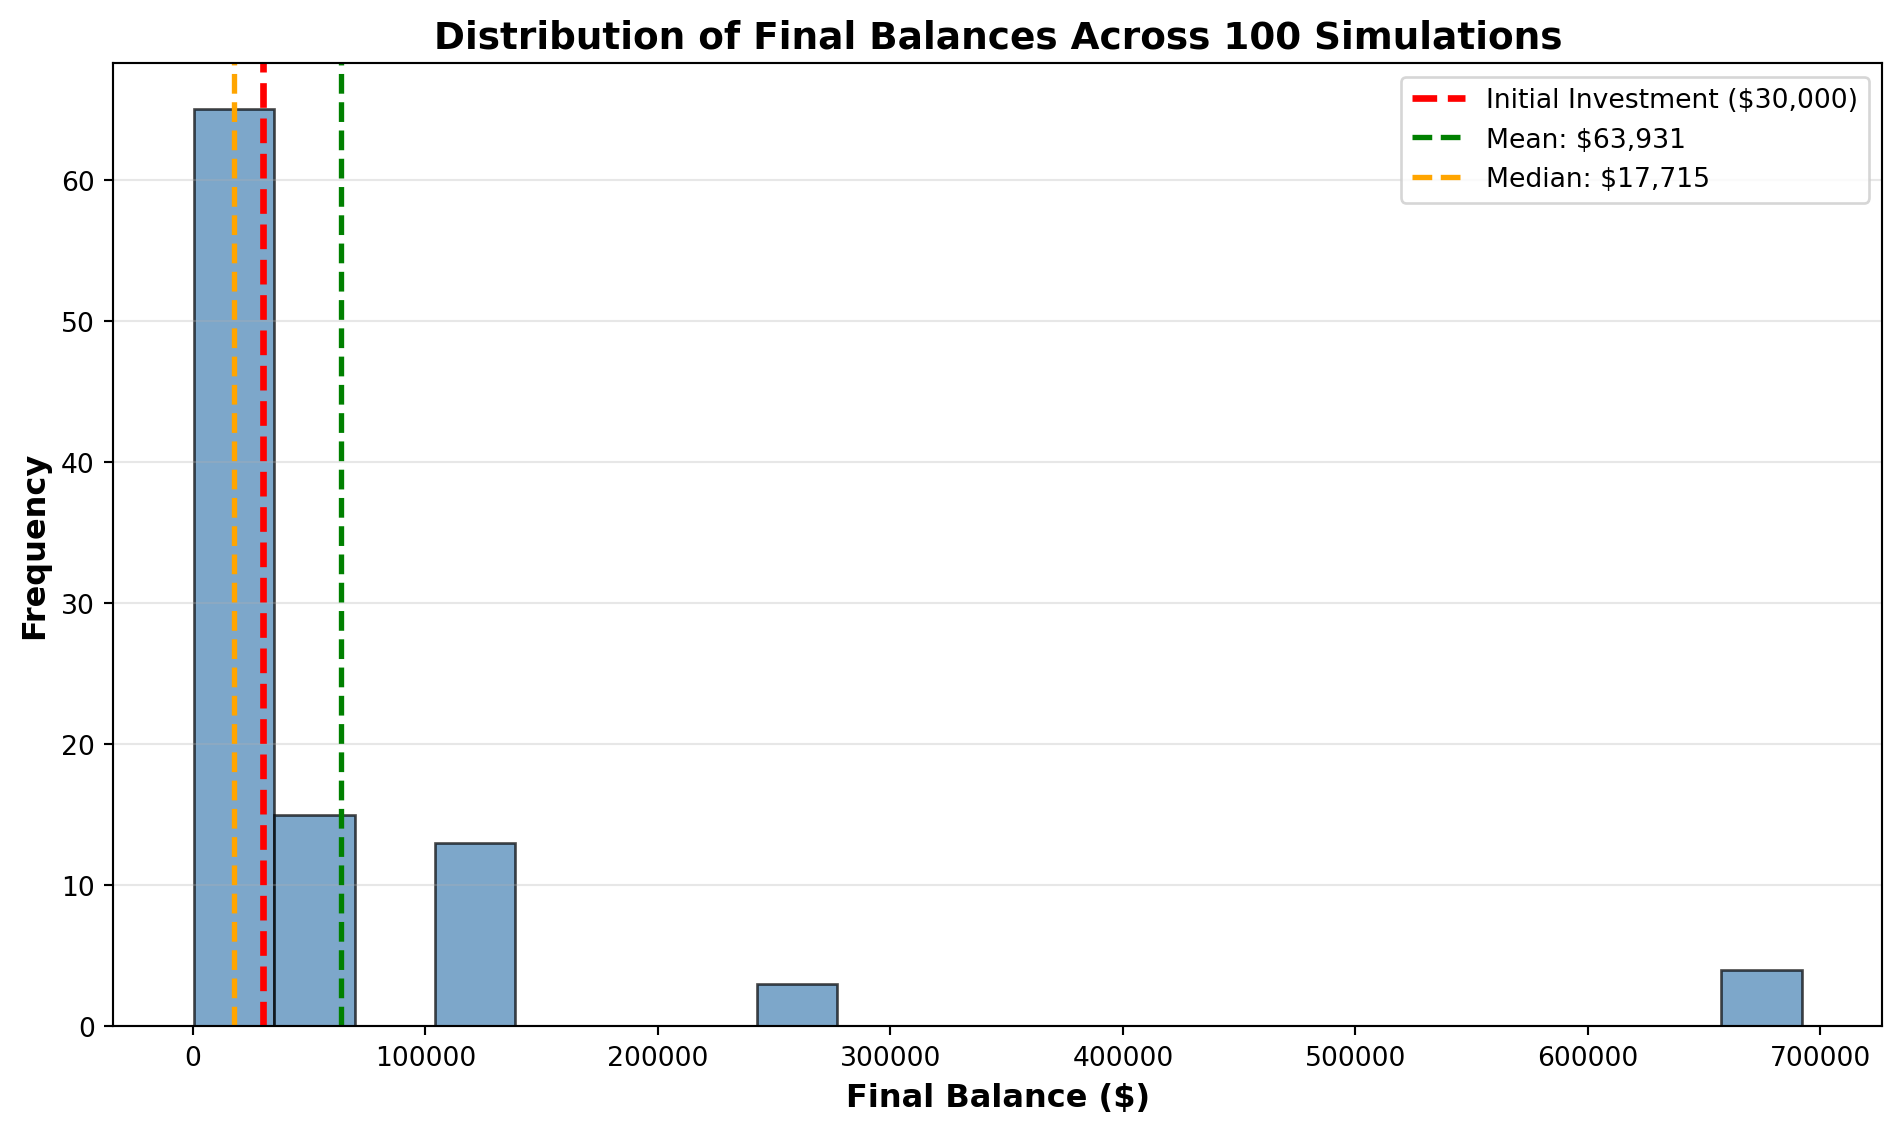
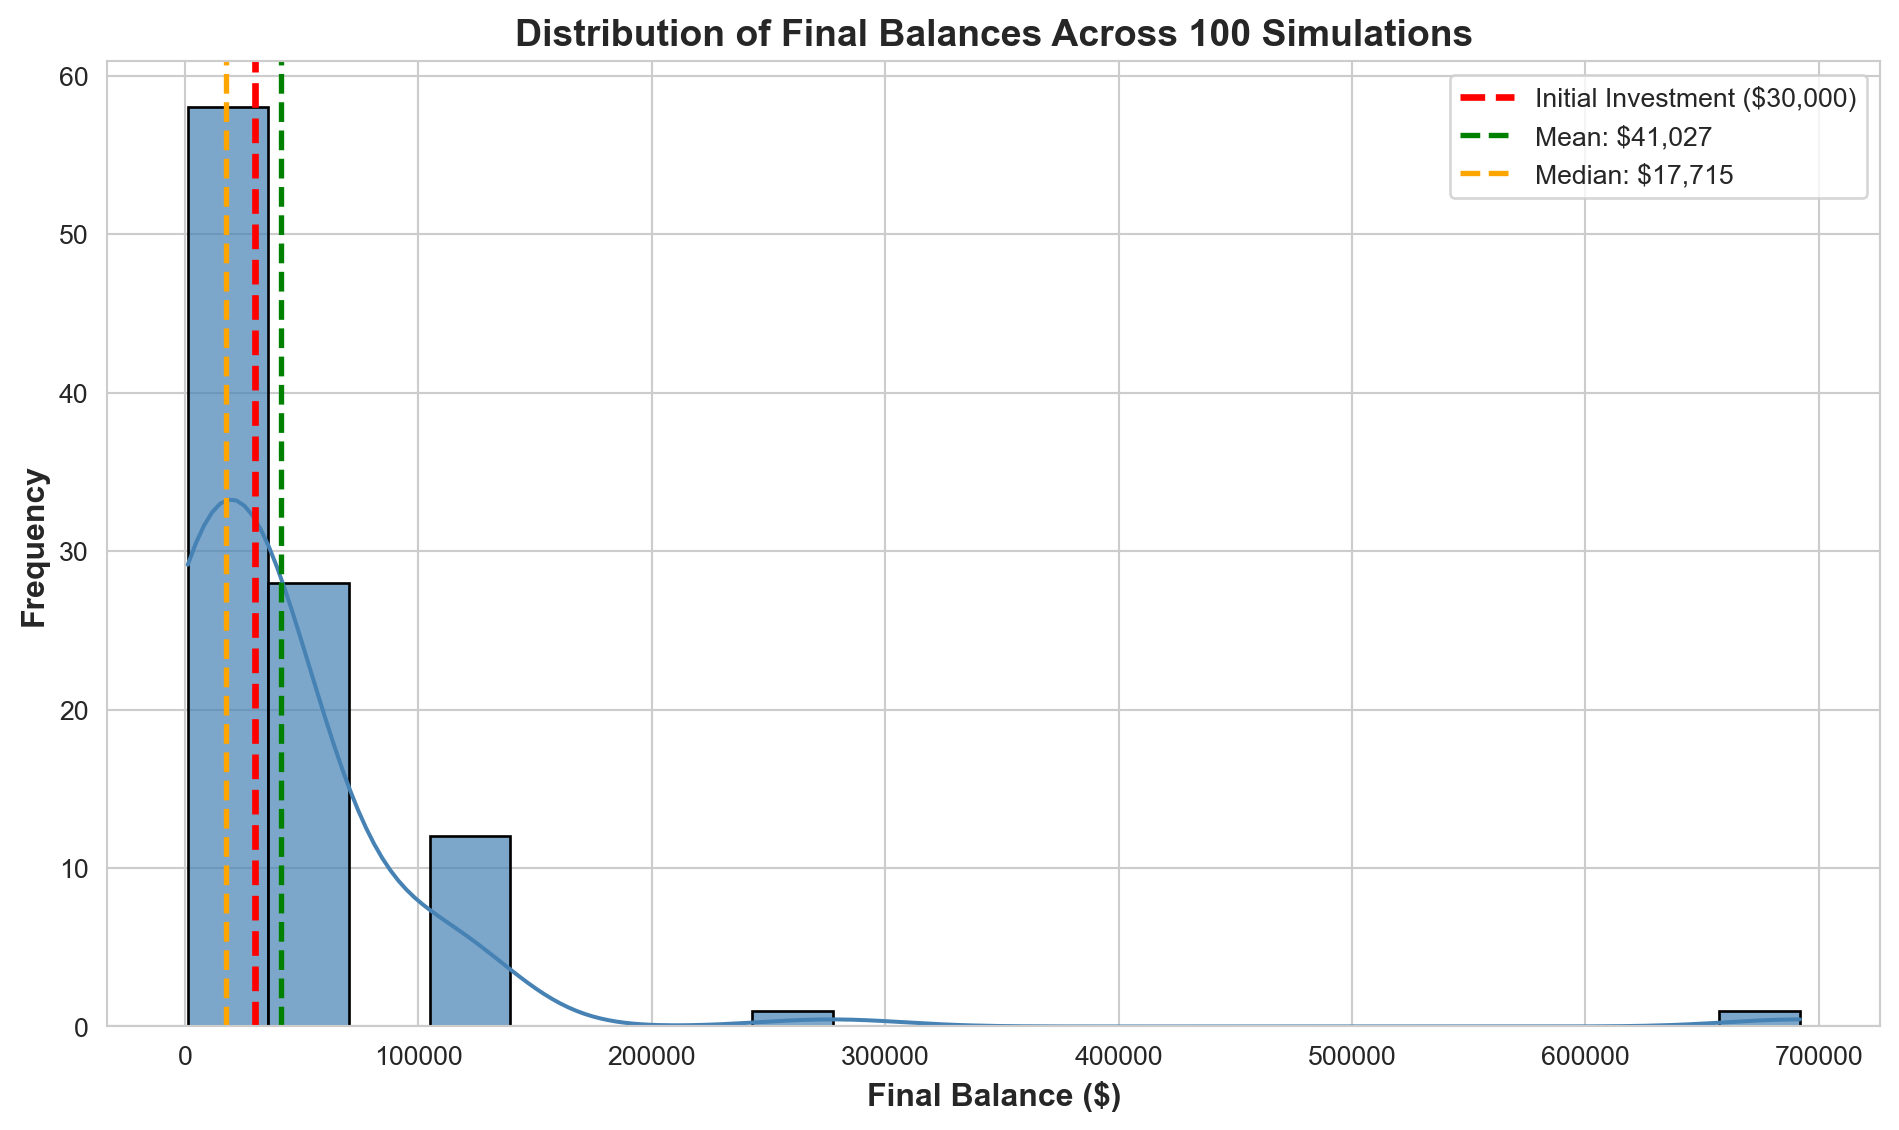
use seaborn

diff --git a/index.html b/index.html
@@ -197,7 +197,7 @@ Outcome: PROFITABLE - You would be happy with this outcome as you gained $15,000
 <div class="cell-output cell-output-display">
 <div id="q3-dist-100-py" class="quarto-figure quarto-figure-center anchored">
 <figure class="figure">
-<p><img src="index_files/figure-html/q3-dist-100-py-output-1.png" width="951" height="566" class="figure-img"></p>
+<p><img src="index_files/figure-html/q3-dist-100-py-output-1.png" width="950" height="565" class="figure-img"></p>
 <figcaption>Distribution of final balances across 100 simulations</figcaption>
 </figure>
 </div>
@@ -205,14 +205,14 @@ Outcome: PROFITABLE - You would be happy with this outcome as you gained $15,000
 <div class="cell-output cell-output-stdout">
 <pre><code>
 Simulation Statistics (n=100):
-Mean final balance: $63,931.04
+Mean final balance: $41,027.16
 Median final balance: $17,714.70
-P(final &gt; $30,000): 0.350 (35.0%)
-Min final balance: $453.50
+P(final &gt; $30,000): 0.420 (42.0%)
+Min final balance: $1,133.74
 Max final balance: $691,980.47
 
 Interpretation:
-Out of 100 simulations, 35 ended above the initial investment of $30,000.
+Out of 100 simulations, 42 ended above the initial investment of $30,000.
 Most outcomes are losses (P &lt; 0.5), suggesting the investment is risky despite positive single-flip EV.</code></pre>
 </div>
 </div>
@@ -222,8 +222,8 @@ Most outcomes are losses (P &lt; 0.5), suggesting the investment is risky despit
 <p>TODO: Report the probability estimate and interpret its practical meaning.</p>
 <div id="q4-prob-original-py" class="cell" data-execution_count="6">
 <div class="cell-output cell-output-stdout">
-<pre><code>Probability of final balance &gt; $30,000: 0.350 (35.0%)
-This means that there is a 35.0% chance that your account balance will be greater than $30,000 at age 75.</code></pre>
+<pre><code>Probability of final balance &gt; $30,000: 0.420 (42.0%)
+This means that there is a 42.0% chance that your account balance will be greater than $30,000 at age 75.</code></pre>
 </div>
 </div>
 </section>
@@ -234,7 +234,7 @@ This means that there is a 35.0% chance that your account balance will be greate
 <div class="cell-output cell-output-display">
 <div id="q5-modified-50pct-py" class="quarto-figure quarto-figure-center anchored">
 <figure class="figure">
-<p><img src="index_files/figure-html/q5-modified-50pct-py-output-1.png" width="1331" height="566" class="figure-img"></p>
+<p><img src="index_files/figure-html/q5-modified-50pct-py-output-1.png" width="1334" height="566" class="figure-img"></p>
 <figcaption>Modified strategy distribution (bet 25% each round)</figcaption>
 </figure>
 </div>
@@ -246,17 +246,17 @@ COMPARISON: Original vs Modified Strategy
 ======================================================================
 
 Original Strategy (Bet 100% each round):
-  Mean:   $48,979.06
+  Mean:   $46,596.61
   Median: $17,714.70
-  P(&gt; $30K): 0.310 (31.0%)
+  P(&gt; $30K): 0.370 (37.0%)
 
 Modified Strategy (Bet 25% each round):
-  Mean:   $33,519.80
+  Mean:   $32,256.25
   Median: $31,922.46
-  P(&gt; $30K): 0.540 (54.0%)
+  P(&gt; $30K): 0.630 (63.0%)
 
 ----------------------------------------------------------------------
-✅ Modified strategy has HIGHER probability of profit (54.0% vs 31.0%)
+✅ Modified strategy has HIGHER probability of profit (63.0% vs 37.0%)
 ✅ Modified strategy has HIGHER median returns ($31,922 vs $17,715)
 ⚠  Original strategy has HIGHER expected value due to more extreme outcomes
 ======================================================================</code></pre>
